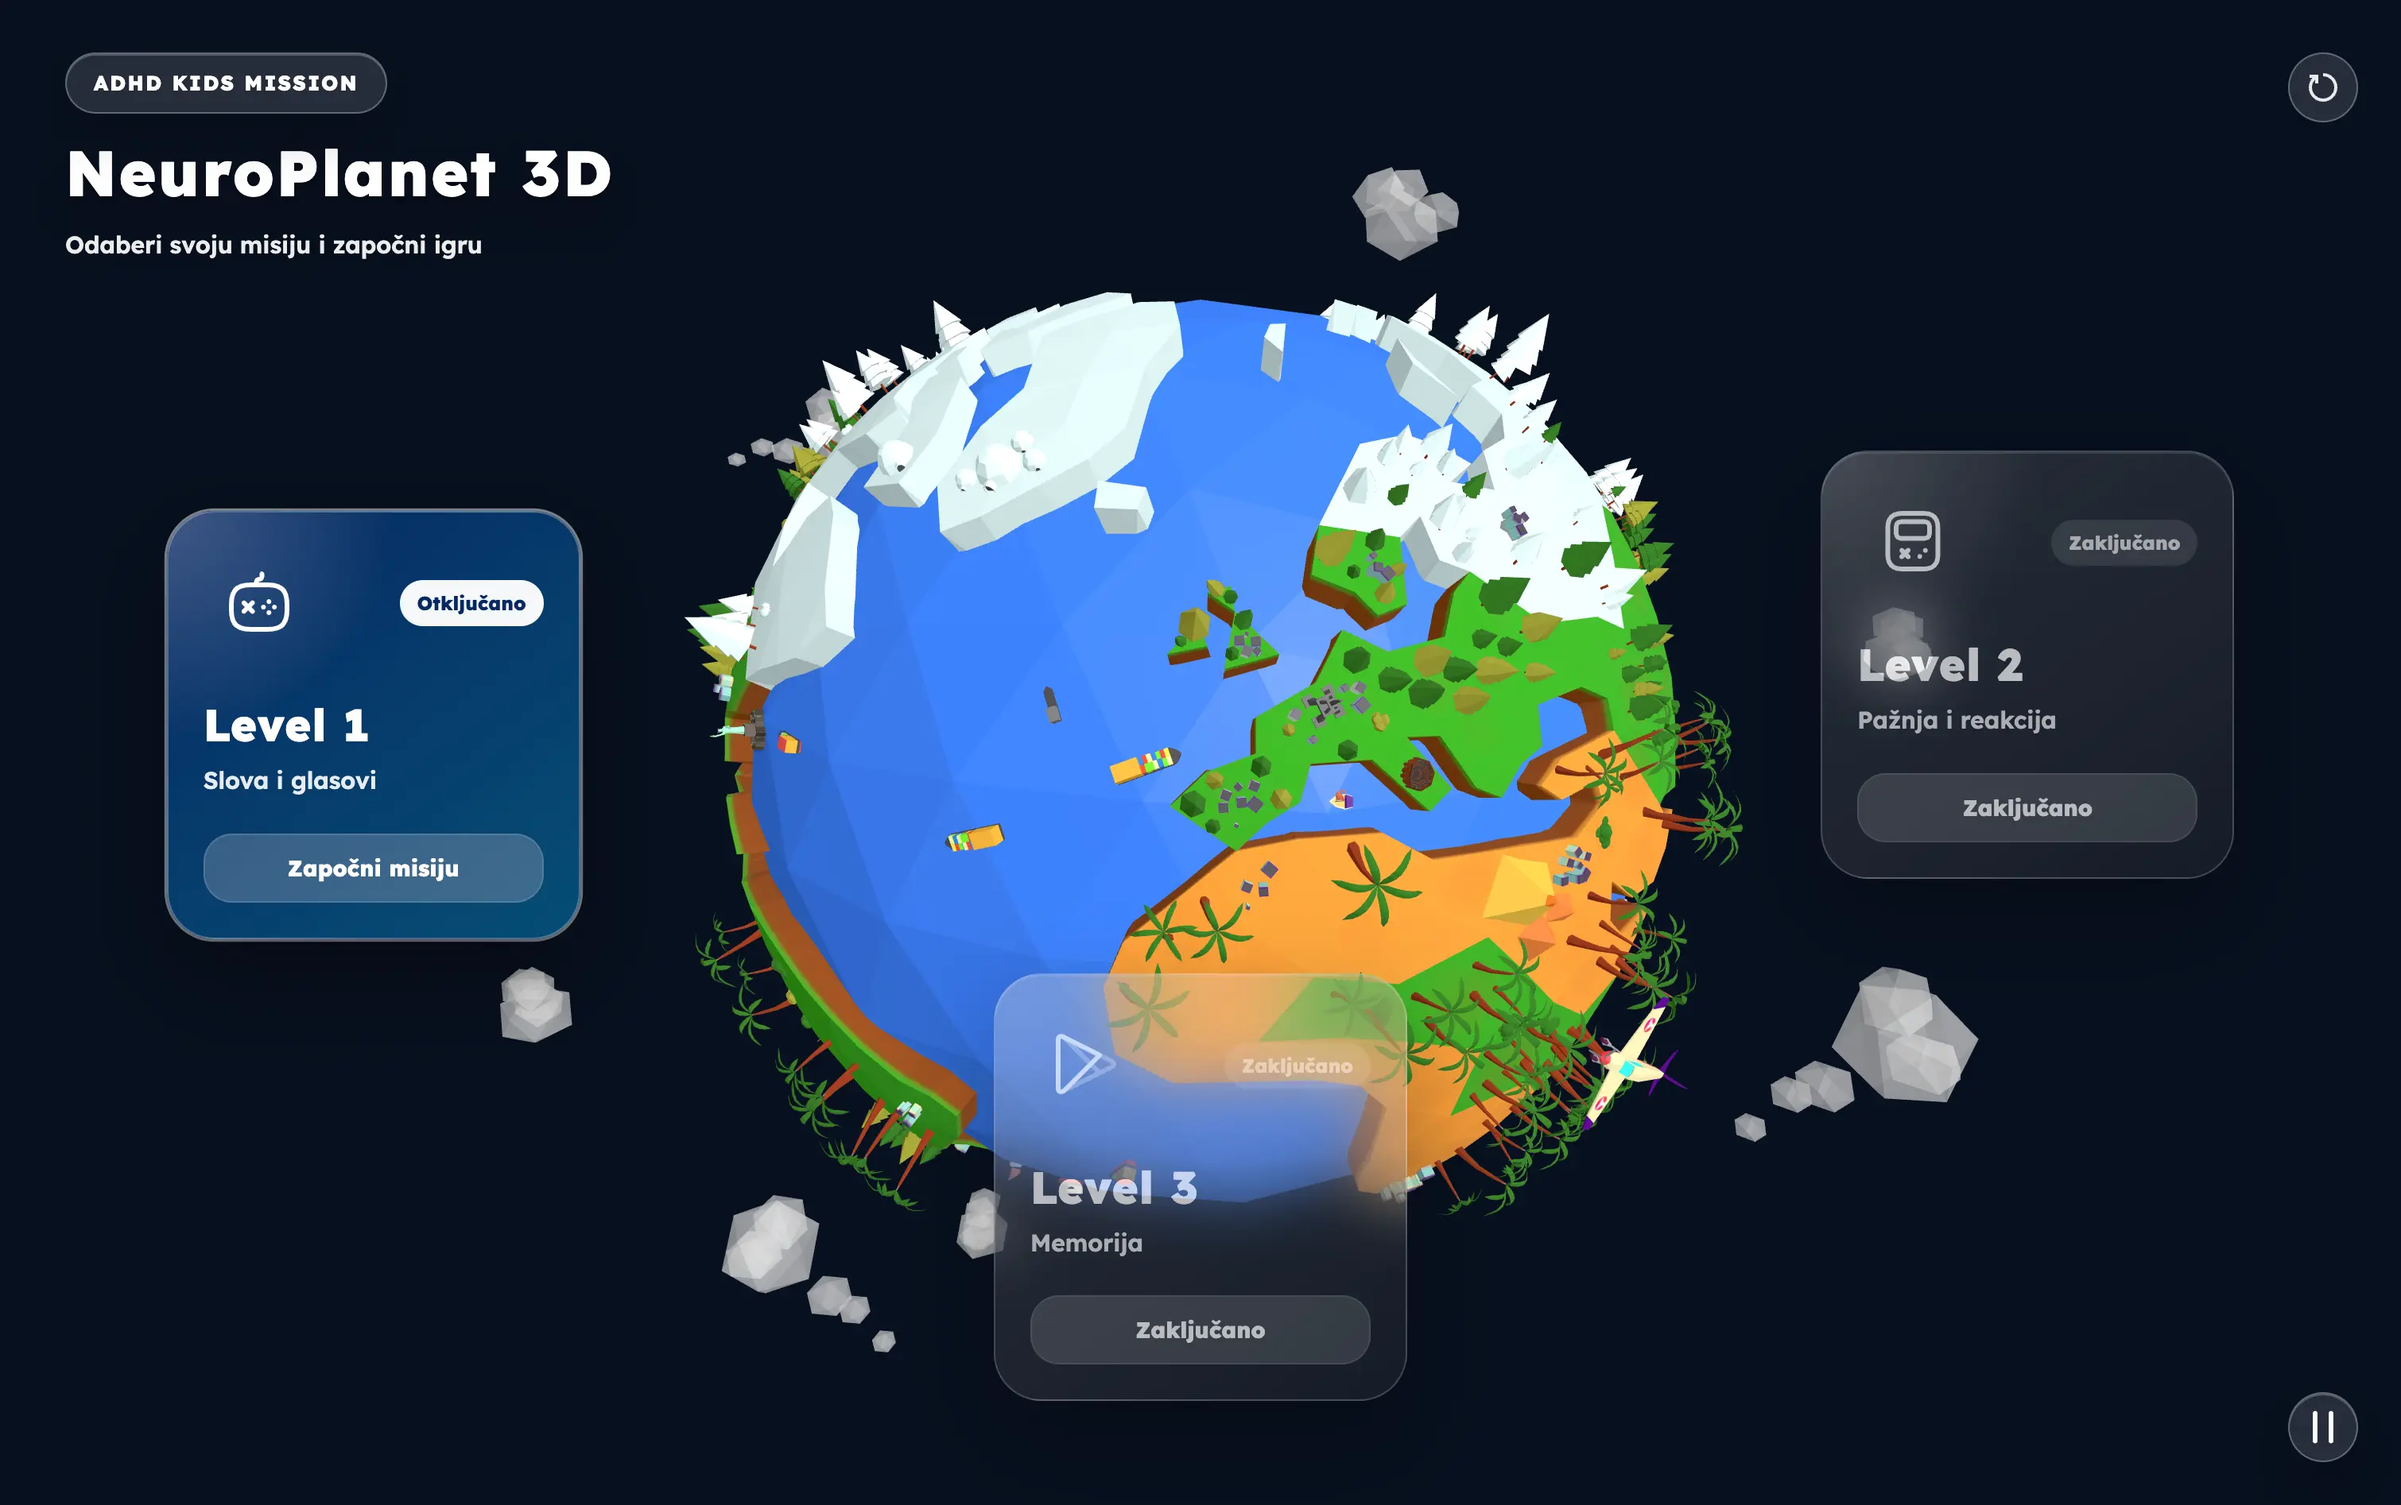
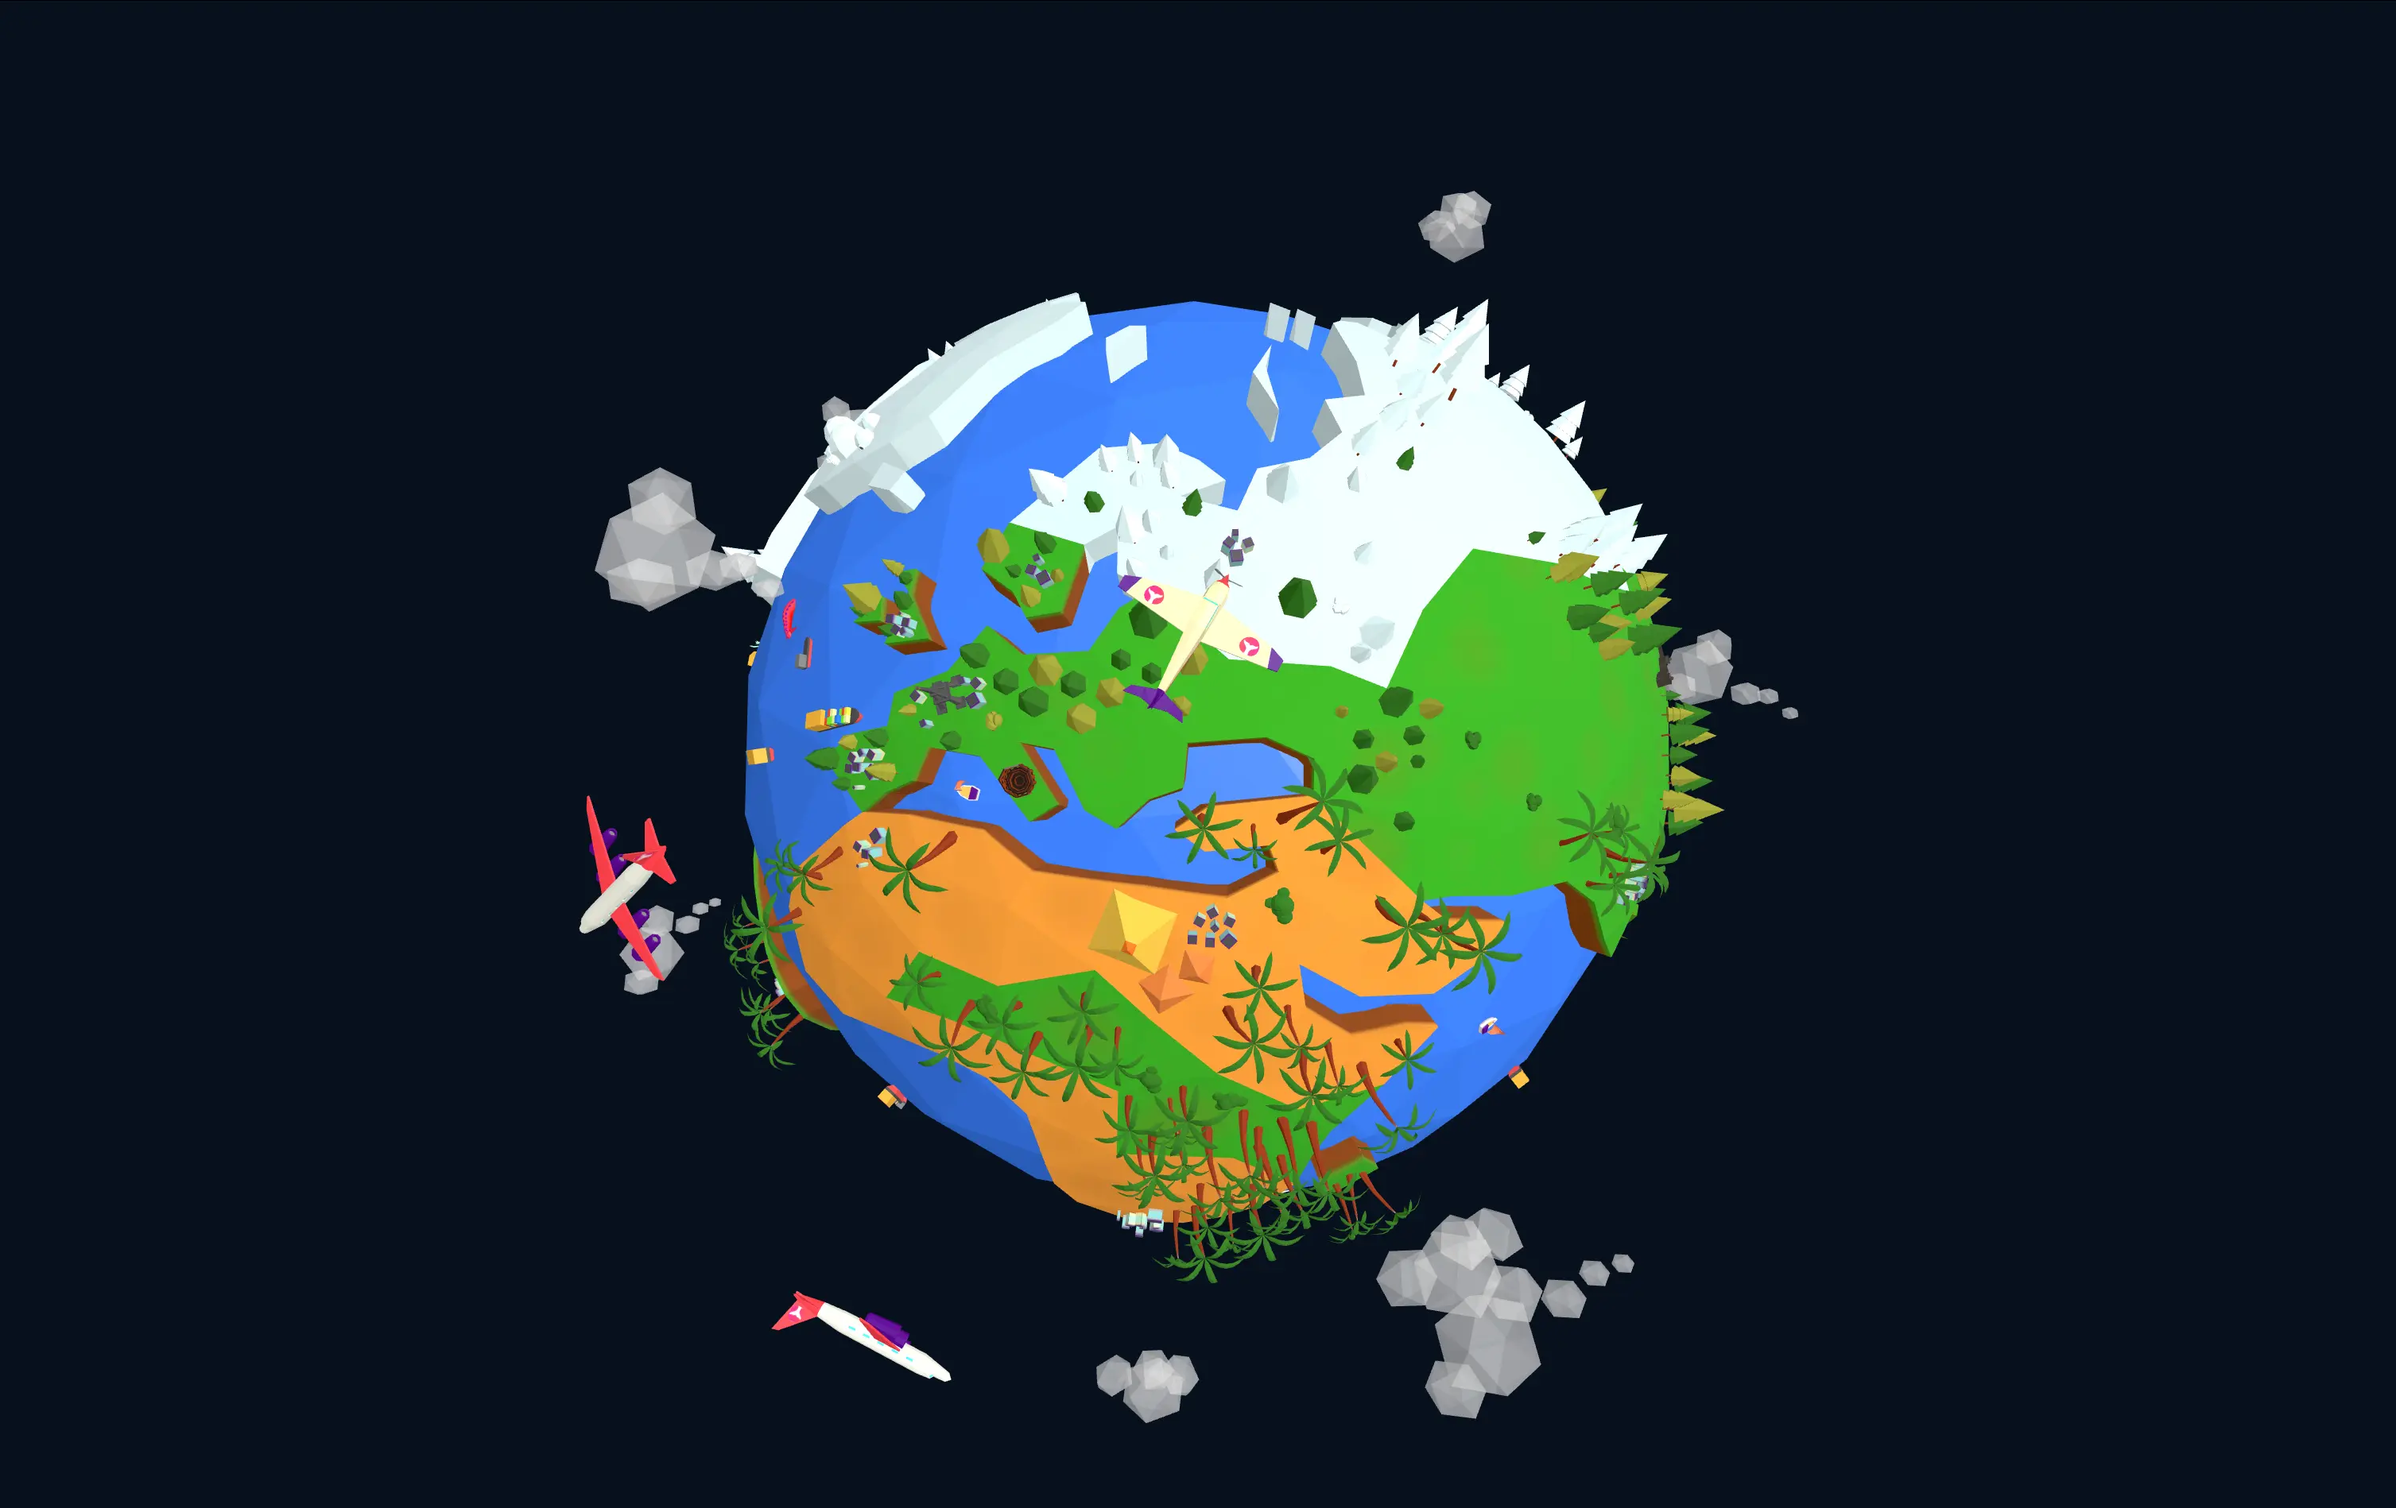
New portfolio project

diff --git a/pages/selectedworks.html b/pages/selectedworks.html
@@ -420,7 +420,28 @@
 
           </div>
 
-          <a href="#" class="project-card__button" aria-label="Open ADHD Game">↗</a>
+            <a href="https://github.com/Armin-000/Endless-Meadow"
+              class="project-card__github"
+              target="_blank"
+              aria-label="Open GitHub repository">
+
+                <svg viewBox="0 0 24 24" aria-hidden="true">
+                    <path d="M12 .297c-6.63 0-12 5.373-12 12 
+                    0 5.303 3.438 9.8 8.205 11.385.6.113.82-.258.82-.577
+                    0-.285-.01-1.04-.015-2.04-3.338.724-4.042-1.61-4.042-1.61
+                    C4.422 18.07 3.633 17.7 3.633 17.7c-1.087-.744.084-.729.084-.729
+                    1.205.084 1.838 1.236 1.838 1.236 1.07 1.835 2.809 1.305
+                    3.495.998.108-.776.417-1.305.76-1.605-2.665-.3-5.466-1.332-5.466-5.93
+                    0-1.31.465-2.38 1.235-3.22-.135-.303-.54-1.523.105-3.176
+                    0 0 1.005-.322 3.3 1.23.96-.267 1.98-.399 3-.405
+                    1.02.006 2.04.138 3 .405 2.28-1.552 3.285-1.23
+                    3.285-1.23.645 1.653.24 2.873.12 3.176.765.84
+                    1.23 1.91 1.23 3.22 0 4.61-2.805 5.625-5.475 5.92
+                    .42.36.81 1.096.81 2.22 0 1.606-.015 2.896-.015
+                    3.286 0 .315.21.69.825.57C20.565 22.092
+                    24 17.592 24 12.297c0-6.627-5.373-12-12-12"/>
+                </svg>
+            </a>
         </article>
 
         <article class="project-card project-card--black">
@@ -451,7 +472,28 @@
 
           </div>
 
-          <a href="#" class="project-card__button" aria-label="Open Endless Meadow">↗</a>
+            <a href="https://github.com/Armin-000/Endless-Meadow"
+                class="project-card__github"
+                target="_blank"
+                aria-label="Open GitHub repository">
+
+                  <svg viewBox="0 0 24 24" aria-hidden="true">
+                      <path d="M12 .297c-6.63 0-12 5.373-12 12 
+                      0 5.303 3.438 9.8 8.205 11.385.6.113.82-.258.82-.577
+                      0-.285-.01-1.04-.015-2.04-3.338.724-4.042-1.61-4.042-1.61
+                      C4.422 18.07 3.633 17.7 3.633 17.7c-1.087-.744.084-.729.084-.729
+                      1.205.084 1.838 1.236 1.838 1.236 1.07 1.835 2.809 1.305
+                      3.495.998.108-.776.417-1.305.76-1.605-2.665-.3-5.466-1.332-5.466-5.93
+                      0-1.31.465-2.38 1.235-3.22-.135-.303-.54-1.523.105-3.176
+                      0 0 1.005-.322 3.3 1.23.96-.267 1.98-.399 3-.405
+                      1.02.006 2.04.138 3 .405 2.28-1.552 3.285-1.23
+                      3.285-1.23.645 1.653.24 2.873.12 3.176.765.84
+                      1.23 1.91 1.23 3.22 0 4.61-2.805 5.625-5.475 5.92
+                      .42.36.81 1.096.81 2.22 0 1.606-.015 2.896-.015
+                      3.286 0 .315.21.69.825.57C20.565 22.092
+                      24 17.592 24 12.297c0-6.627-5.373-12-12-12"/>
+                  </svg>
+              </a>
         </article>
 
         <article class="project-card project-card--light">
@@ -482,7 +524,28 @@
 
           </div>
 
-          <a href="#" class="project-card__button" aria-label="Open Realtime Weather Waves">↗</a>
+            <a href="https://github.com/Armin-000/Endless-Meadow"
+                class="project-card__github"
+                target="_blank"
+                aria-label="Open GitHub repository">
+
+                  <svg viewBox="0 0 24 24" aria-hidden="true">
+                      <path d="M12 .297c-6.63 0-12 5.373-12 12 
+                      0 5.303 3.438 9.8 8.205 11.385.6.113.82-.258.82-.577
+                      0-.285-.01-1.04-.015-2.04-3.338.724-4.042-1.61-4.042-1.61
+                      C4.422 18.07 3.633 17.7 3.633 17.7c-1.087-.744.084-.729.084-.729
+                      1.205.084 1.838 1.236 1.838 1.236 1.07 1.835 2.809 1.305
+                      3.495.998.108-.776.417-1.305.76-1.605-2.665-.3-5.466-1.332-5.466-5.93
+                      0-1.31.465-2.38 1.235-3.22-.135-.303-.54-1.523.105-3.176
+                      0 0 1.005-.322 3.3 1.23.96-.267 1.98-.399 3-.405
+                      1.02.006 2.04.138 3 .405 2.28-1.552 3.285-1.23
+                      3.285-1.23.645 1.653.24 2.873.12 3.176.765.84
+                      1.23 1.91 1.23 3.22 0 4.61-2.805 5.625-5.475 5.92
+                      .42.36.81 1.096.81 2.22 0 1.606-.015 2.896-.015
+                      3.286 0 .315.21.69.825.57C20.565 22.092
+                      24 17.592 24 12.297c0-6.627-5.373-12-12-12"/>
+                  </svg>
+              </a>
         </article>
 
         <article class="project-card">
@@ -519,14 +582,28 @@
 
             </div>
 
-            <a
-                href="https://cochlear-implant.alphawave.hr/"
-                class="project-card__button"
+              <a href="https://github.com/Armin-000/Endless-Meadow"
+                class="project-card__github"
                 target="_blank"
-                aria-label="Open Cochlear Project"
-            >
-                ↗
-            </a>
+                aria-label="Open GitHub repository">
+
+                  <svg viewBox="0 0 24 24" aria-hidden="true">
+                      <path d="M12 .297c-6.63 0-12 5.373-12 12 
+                      0 5.303 3.438 9.8 8.205 11.385.6.113.82-.258.82-.577
+                      0-.285-.01-1.04-.015-2.04-3.338.724-4.042-1.61-4.042-1.61
+                      C4.422 18.07 3.633 17.7 3.633 17.7c-1.087-.744.084-.729.084-.729
+                      1.205.084 1.838 1.236 1.838 1.236 1.07 1.835 2.809 1.305
+                      3.495.998.108-.776.417-1.305.76-1.605-2.665-.3-5.466-1.332-5.466-5.93
+                      0-1.31.465-2.38 1.235-3.22-.135-.303-.54-1.523.105-3.176
+                      0 0 1.005-.322 3.3 1.23.96-.267 1.98-.399 3-.405
+                      1.02.006 2.04.138 3 .405 2.28-1.552 3.285-1.23
+                      3.285-1.23.645 1.653.24 2.873.12 3.176.765.84
+                      1.23 1.91 1.23 3.22 0 4.61-2.805 5.625-5.475 5.92
+                      .42.36.81 1.096.81 2.22 0 1.606-.015 2.896-.015
+                      3.286 0 .315.21.69.825.57C20.565 22.092
+                      24 17.592 24 12.297c0-6.627-5.373-12-12-12"/>
+                  </svg>
+              </a>
 
         </article>
 

diff --git a/css/main.css b/css/main.css
@@ -7850,14 +7850,27 @@ AI TOOLS
     position:absolute;
     inset:0;
     z-index:1;
+
     background:
-        linear-gradient(
-            to right,
-            rgba(30,30,30,.45),
-            rgba(30,30,30,.08),
-            transparent
-        );
+    linear-gradient(
+        to right,
+        rgba(0,0,0,1) 0%,
+        rgba(0,0,0,.85) 14%,
+        rgba(0,0,0,.55) 32%,
+        rgba(0,0,0,.18) 55%,
+        transparent 78%
+    );
+
     pointer-events:none;
+}
+
+.project-preview{
+    width:100%;
+    height:100%;
+    object-fit:cover;
+
+    transform:scale(1.05);
+    filter:contrast(1.1) saturate(1.1);
 }
 
 .project-card__visual::after{
@@ -7865,12 +7878,14 @@ AI TOOLS
     position:absolute;
     inset:0;
     z-index:2;
+
     background:
-        radial-gradient(
-            circle at 72% 18%,
-            rgba(223,255,69,.14),
-            transparent 32%
-        );
+    radial-gradient(
+        circle at 75% 20%,
+        rgba(17,206,227,.16),
+        transparent 35%
+    );
+
     pointer-events:none;
 }
 
@@ -7931,4 +7946,101 @@ AI TOOLS
         height:66px;
         font-size:30px;
     }
+
+    .project-card__visual{
+        height:360px;
+        min-height:360px;
+        margin-top:-90px;
+        padding-top:90px;
+        background:#000;
+    }
+
+    .project-card__visual::before{
+        content:"";
+        position:absolute;
+        left:0;
+        right:0;
+        top:0;
+        height:190px;
+        z-index:3;
+
+        background:
+        linear-gradient(
+            to bottom,
+            #000 0%,
+            rgba(0,0,0,.98) 25%,
+            rgba(0,0,0,.82) 45%,
+            rgba(0,0,0,.45) 68%,
+            transparent 100%
+        );
+
+        pointer-events:none;
+    }
+
+    .project-card__visual::after{
+        content:"";
+        position:absolute;
+        left:-20%;
+        right:-20%;
+        top:-70px;
+        height:240px;
+        z-index:4;
+
+        background:rgba(0,0,0,.85);
+        filter:blur(55px);
+
+        pointer-events:none;
+    }
+}
+
+.project-card{
+    position:relative;
+}
+
+.project-card__github{
+    position:absolute;
+    top:25px;
+    right:25px;
+
+    width:64px;
+    height:64px;
+    border-radius:50%;
+
+    display:flex;
+    align-items:center;
+    justify-content:center;
+
+    background:rgba(0, 0, 0, 0.9);
+    backdrop-filter:blur(16px);
+
+    border:1px solid rgba(255,255,255,.14);
+
+    transition:
+    transform .5s ease,
+    background .5s ease,
+    box-shadow .5s ease;
+
+    z-index:20;
+}
+
+.project-card__github svg{
+    width:28px;
+    height:28px;
+    fill:white;
+
+    transition:transform .5s ease;
+}
+
+.project-card__github:hover{
+
+    background:#fff;
+
+    box-shadow:
+    0 0 25px rgba(255,255,255,.4),
+    0 0 60px rgba(255,255,255,.15);
+}
+
+.project-card__github:hover svg{
+    fill:black;
+    transform:rotate(360deg);
 }
